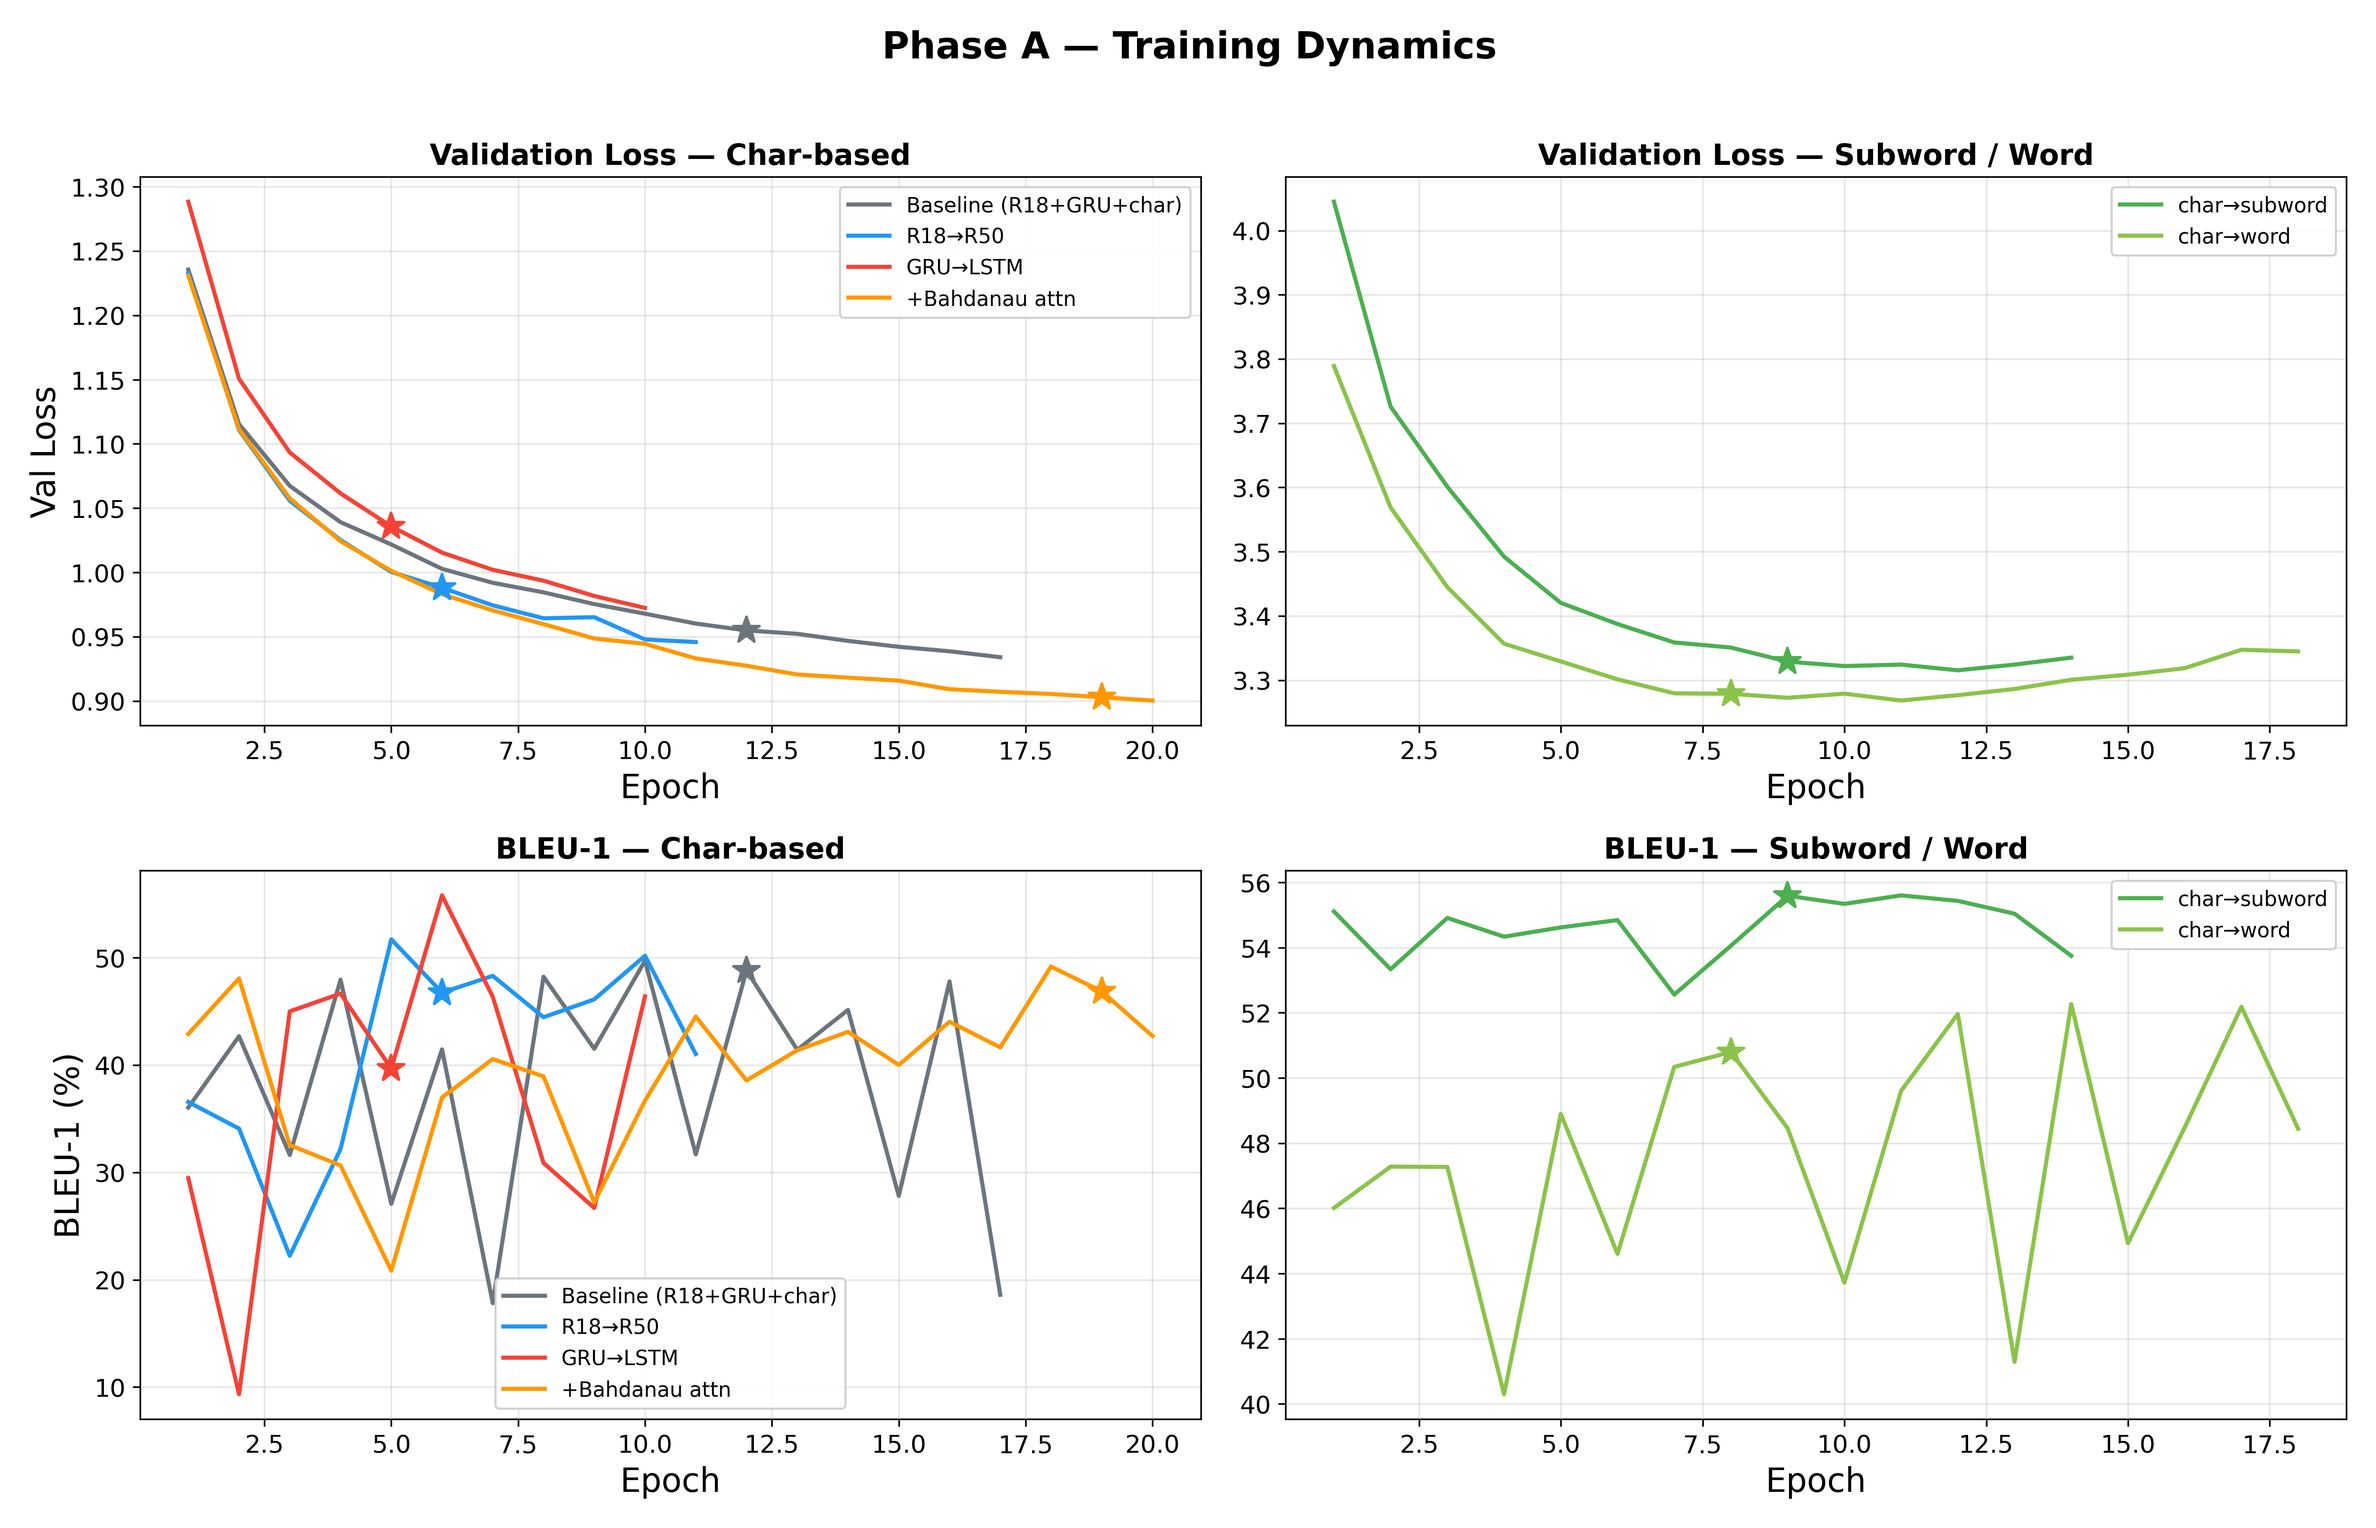
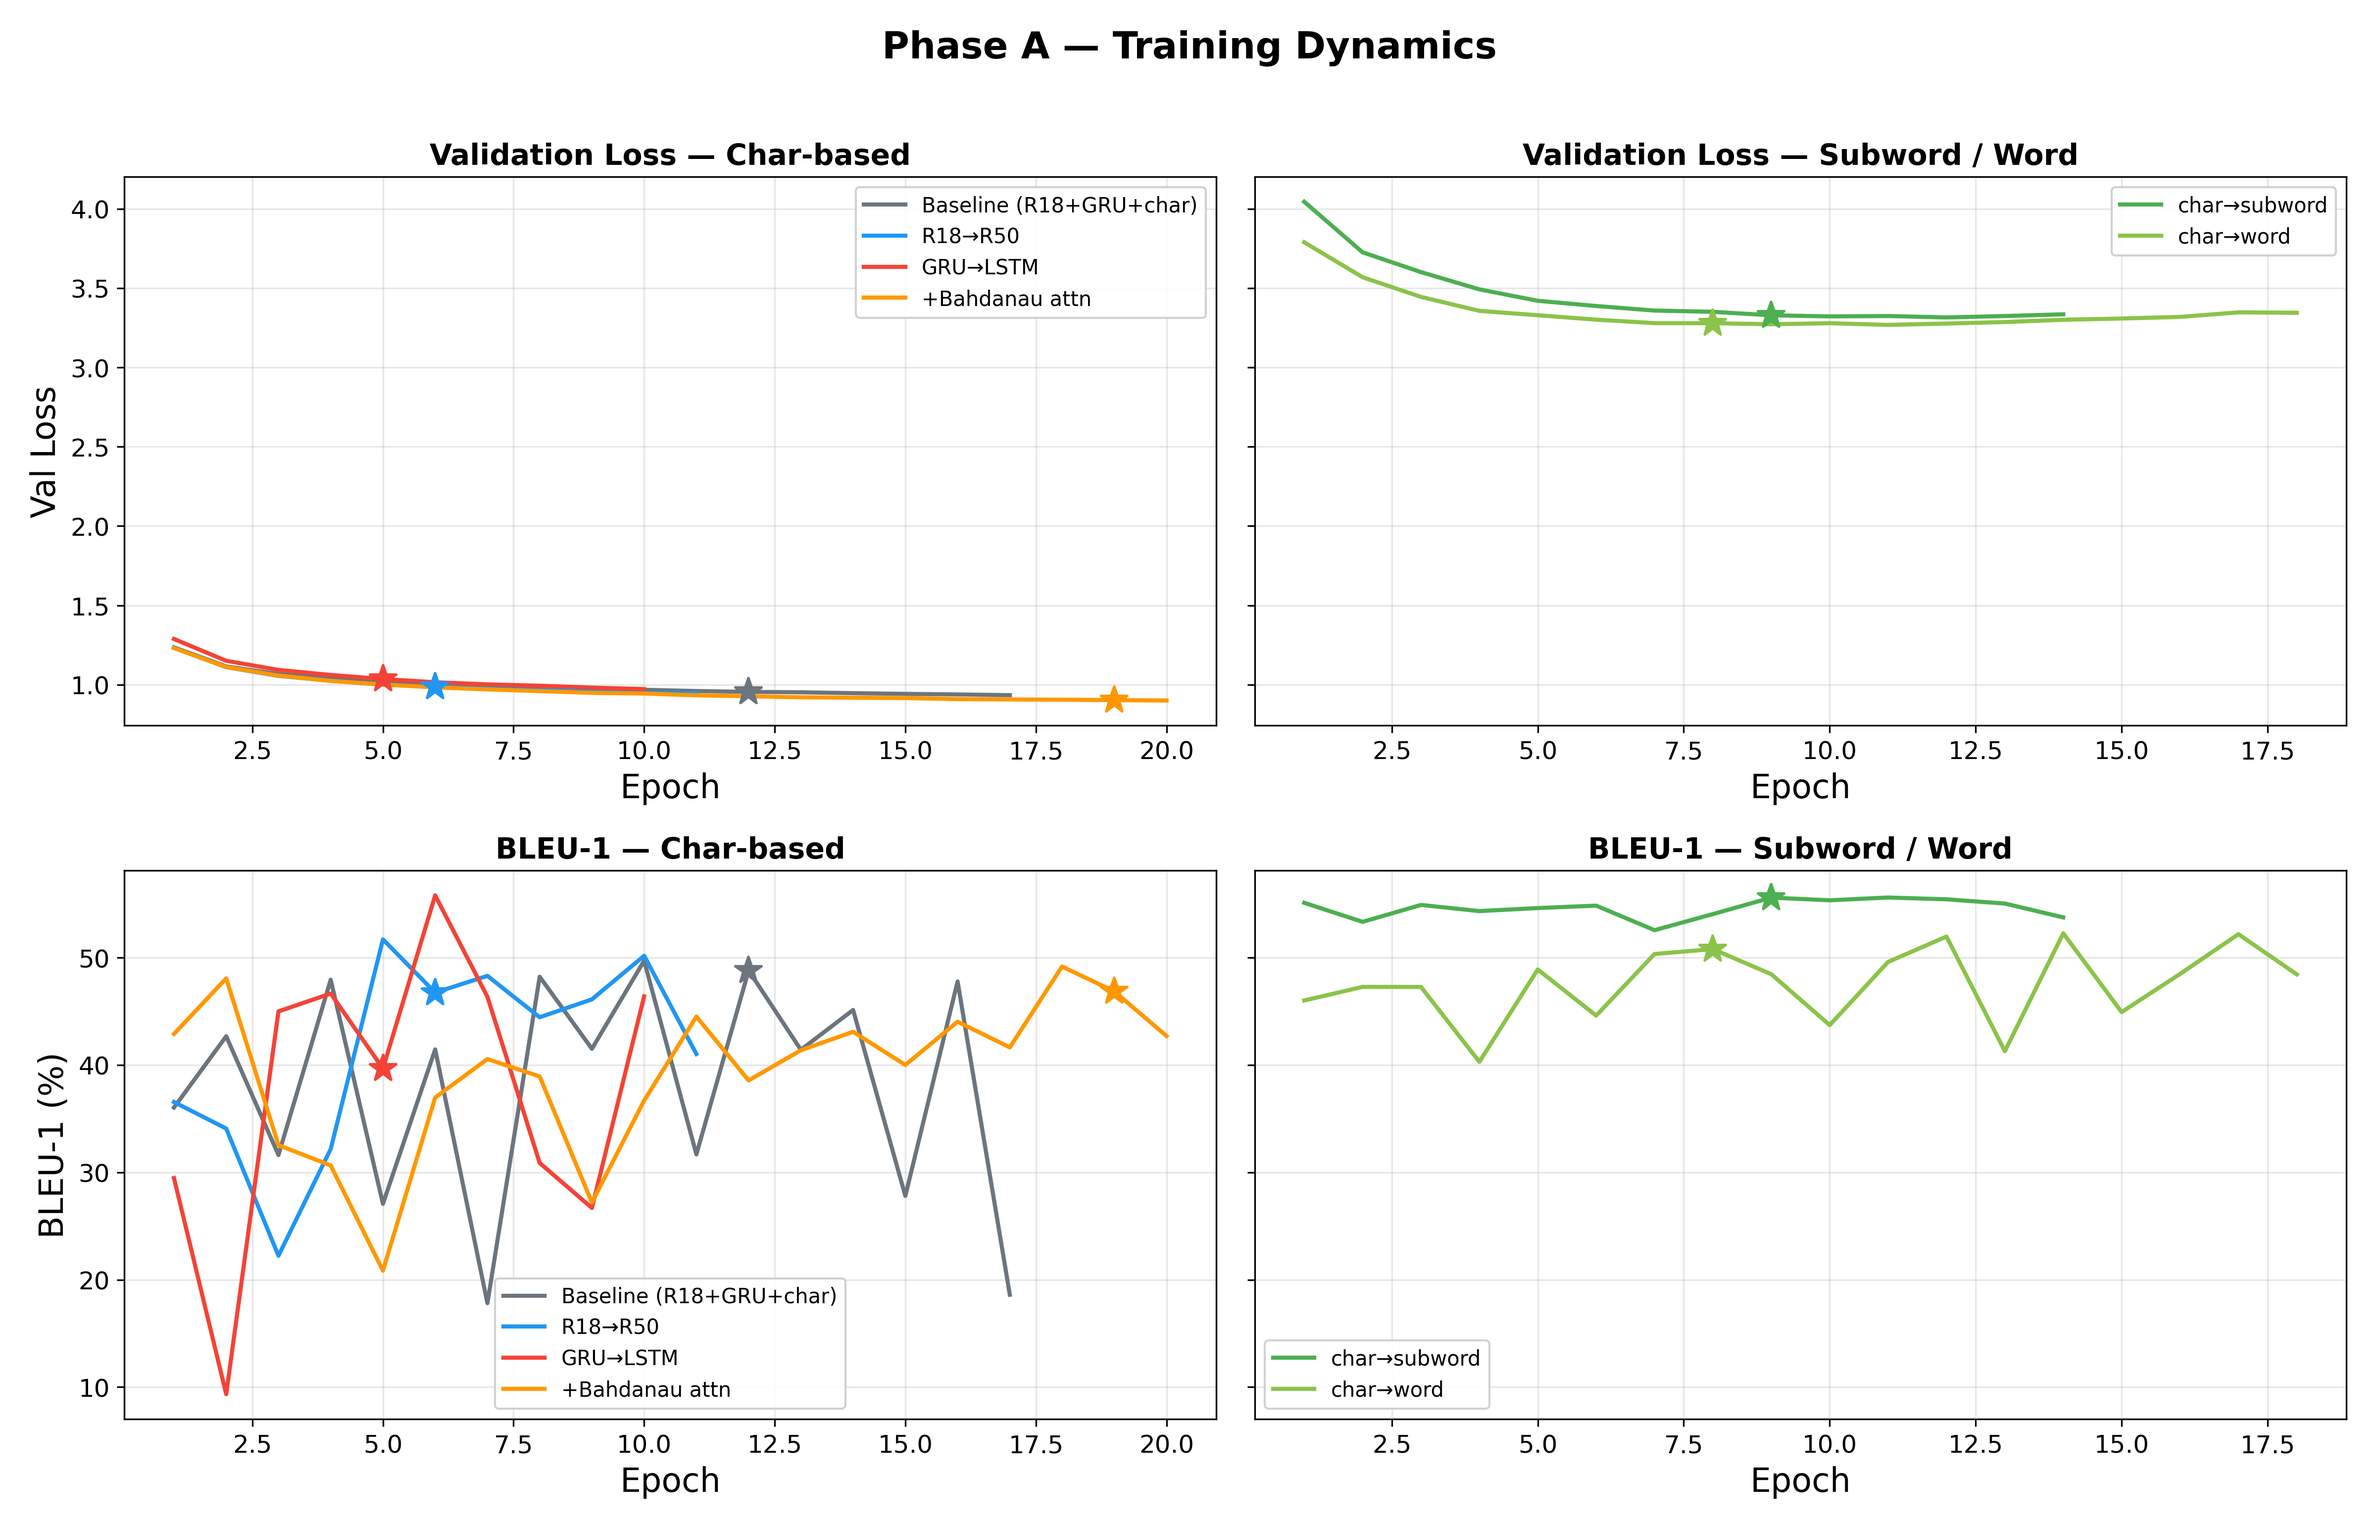
fixed plots

diff --git a/src/generate_presentation_plots.py b/src/generate_presentation_plots.py
@@ -319,6 +319,13 @@ def plot_baseline_to_best_progression(data: dict, out_dir: Path) -> None:
 
     fig, axes = plt.subplots(1, 4, figsize=(20, 6), sharey=False)
 
+    # Compute global y-range across all metrics so every subplot uses the same scale
+    all_vals = [pct(FINAL_METRICS[e][m]) for m in METRICS for e in path]
+    y_min = min(all_vals)
+    y_max = max(all_vals)
+    y_pad = (y_max - y_min) * 0.12
+    global_ylim = (y_min - y_pad - 2, y_max + y_pad + 2)
+
     for ax_i, m in enumerate(METRICS):
         ax = axes[ax_i]
         vals = [pct(FINAL_METRICS[e][m]) for e in path]
@@ -349,6 +356,7 @@ def plot_baseline_to_best_progression(data: dict, out_dir: Path) -> None:
         ax.text(len(path) - 1, vals[-1] + 1.0, f"{vals[-1]:.1f}%", ha="center", va="bottom",
                 fontsize=10, fontweight="bold", color="#C62828")
 
+        ax.set_ylim(global_ylim)
         ax.set_xticks(range(len(path)))
         ax.set_xticklabels(step_labels, fontsize=9, ha="center")
         ax.set_title(METRIC_LABELS[m], fontsize=14, fontweight="bold")
@@ -421,7 +429,7 @@ def _plot_training_curves(
     char_exps = [e for e in exps if TOK_TYPE[e] == "char" and e in data]
     text_exps = [e for e in exps if TOK_TYPE[e] in ("subword", "word") and e in data]
 
-    fig, axes = plt.subplots(2, 2, figsize=(16, 10))
+    fig, axes = plt.subplots(2, 2, figsize=(16, 10), sharey="row")
 
     # Row 0: Validation loss | Row 1: BLEU-1 (%)
     # Col 0: Char-based      | Col 1: Subword/Word-based
